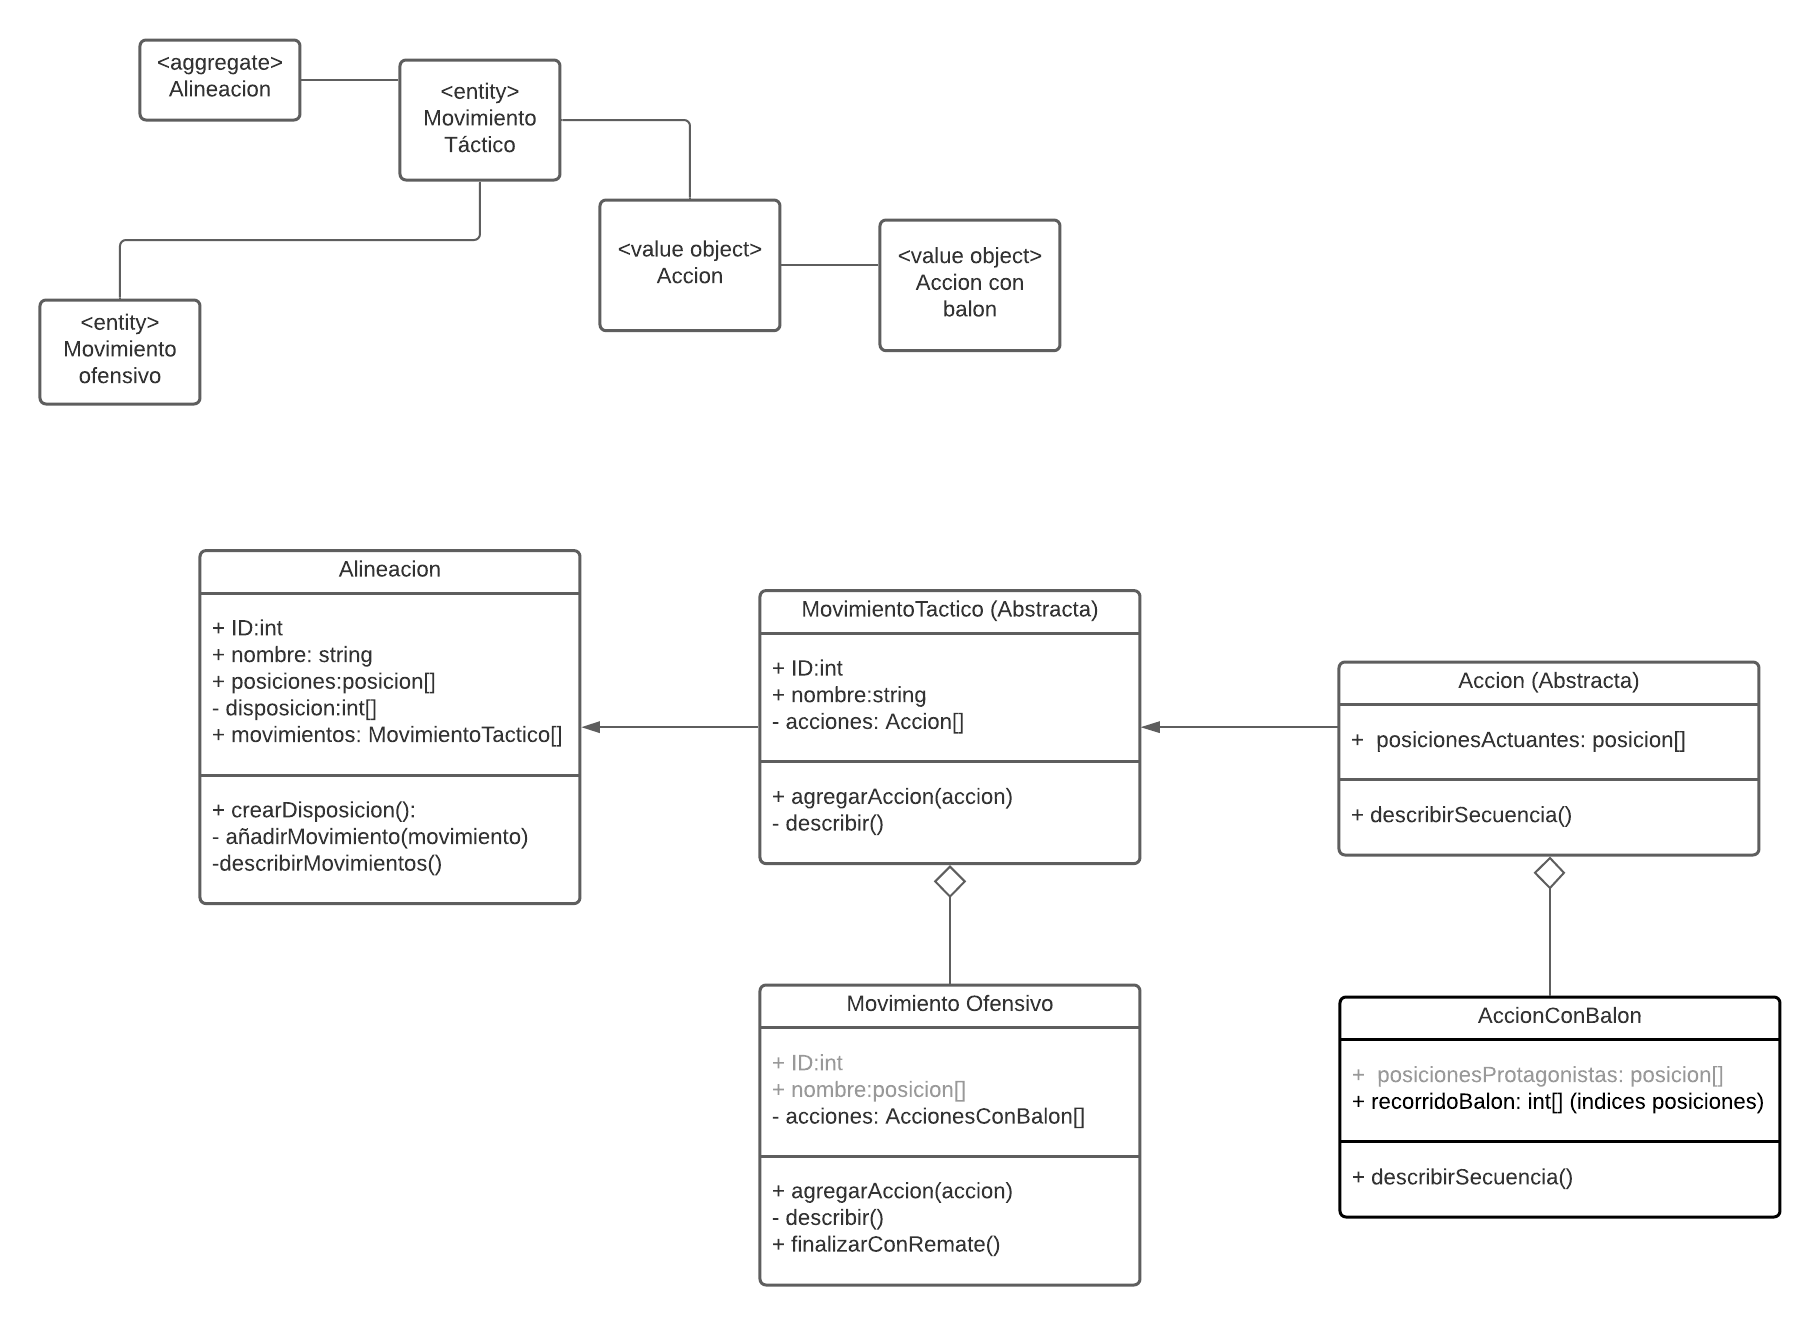
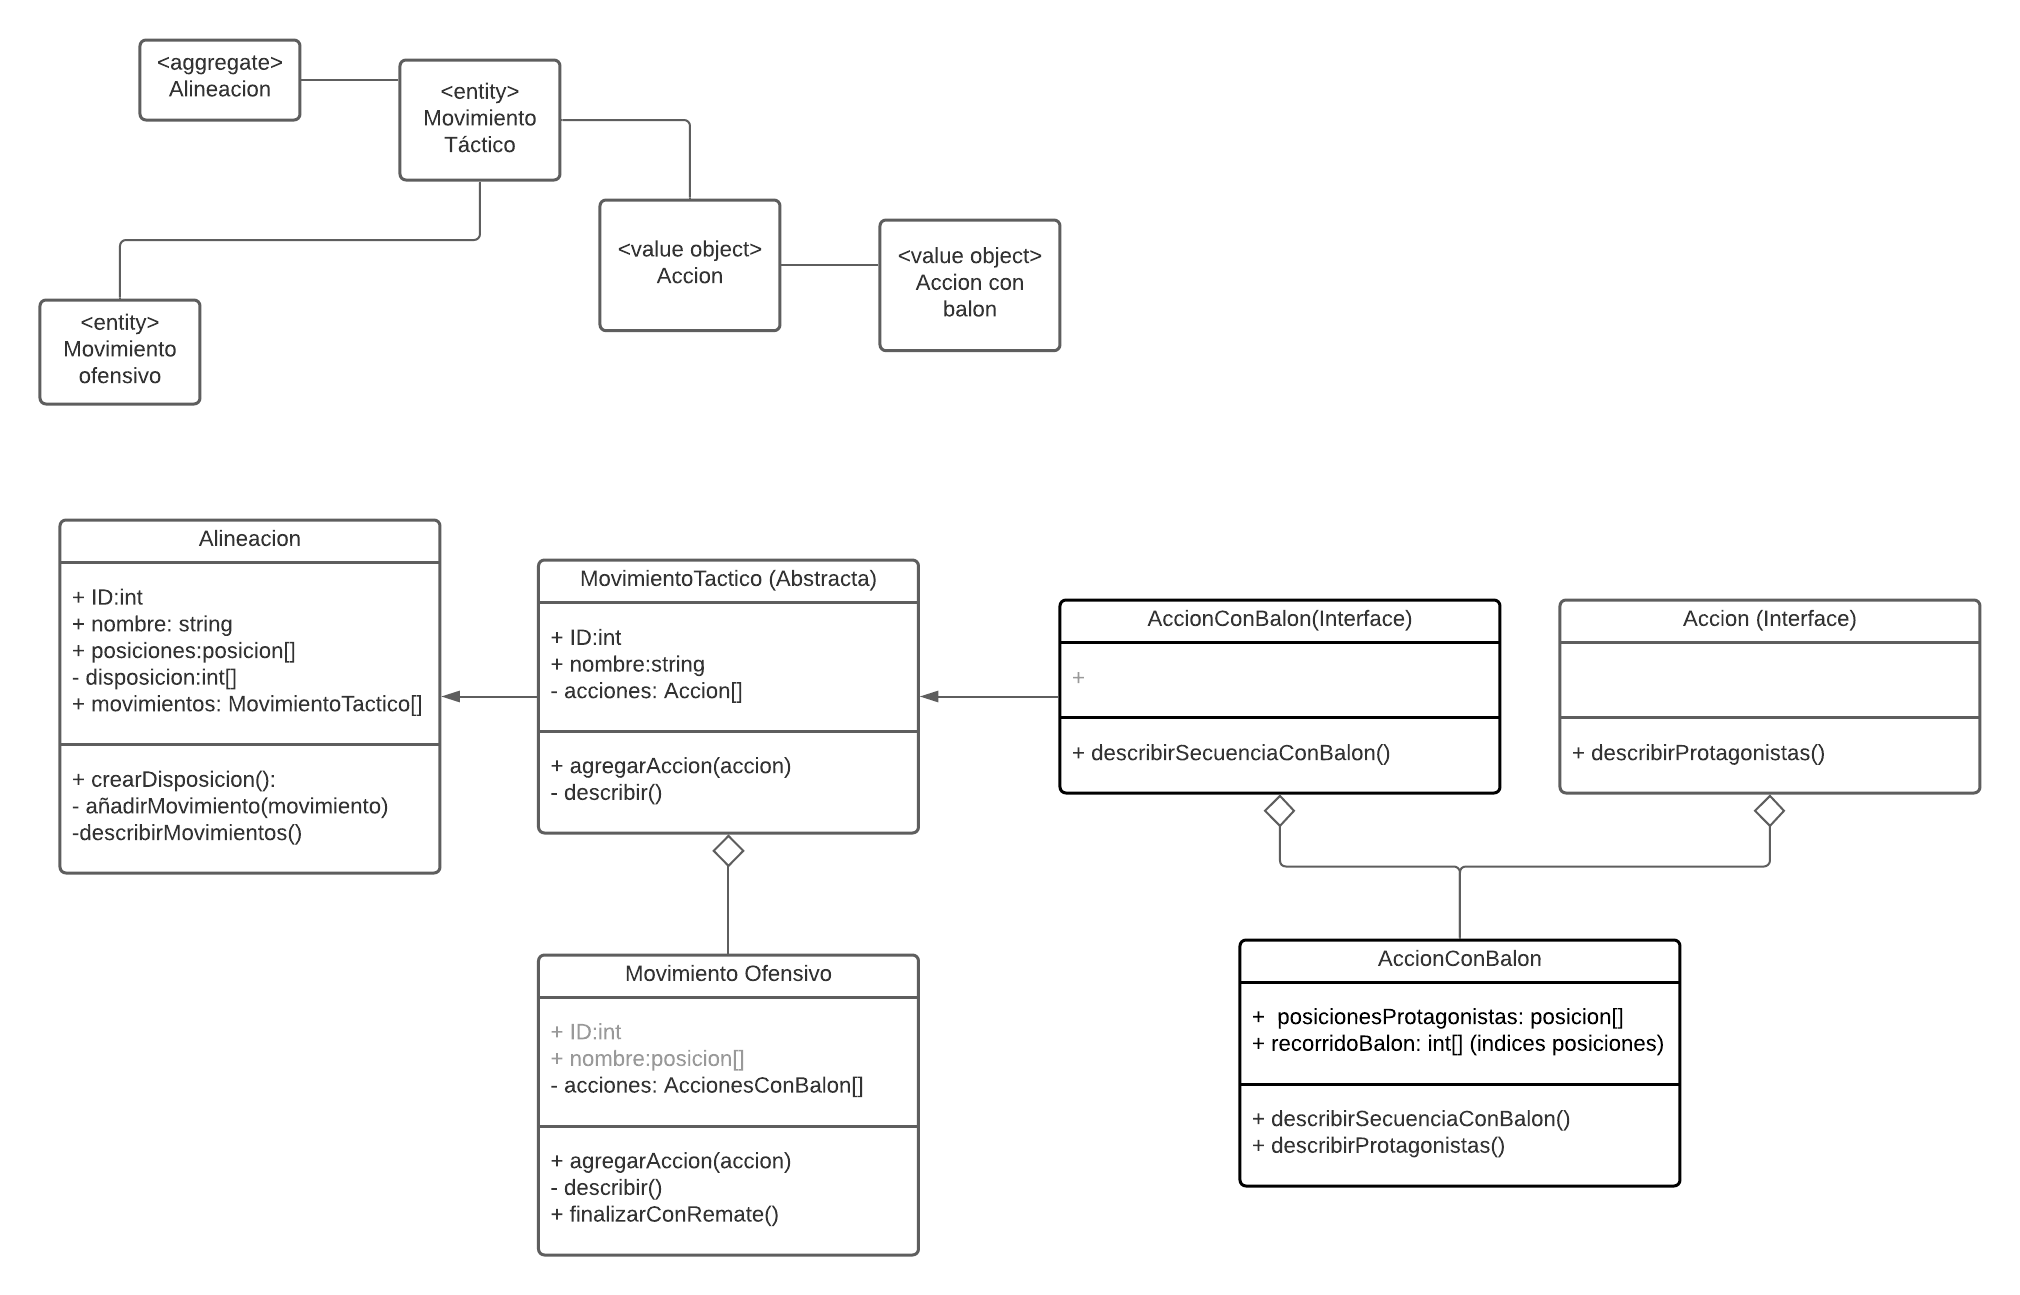
Completado

diff --git a/Program.cs b/Program.cs
@@ -10,25 +10,25 @@ namespace Solid
         static void Main(string[] args)
         {
             //Describimos las acciones
-            Accion salidaDeArco = new AccionConBalon(
+            AccionConBalon salidaDeArco = new Pase(
                 new List<Posicion>{Posicion.Portero,Posicion.DefensaLateral}, 
                 new int[2]{0,1}
             );
-            Accion paredConPivote = new AccionConBalon(
+            AccionConBalon paredConPivote = new Pase(
                 new List<Posicion>{Posicion.DefensaLateral,Posicion.Mediocapista}, 
                 new int[3]{0,1,0}
             );
-            Accion corridaPorBanda = new AccionConBalon(
+            AccionConBalon corridaPorBanda = new Pase(
                 new List<Posicion>{Posicion.DefensaLateral}, 
                 new int[1]{0}
             );
-            Accion centrada = new AccionConBalon(
+            AccionConBalon centrada = new Pase(
                 new List<Posicion>{Posicion.DefensaLateral, Posicion.DelanteroCentral},
                 new int[2]{1,0}
             );
 
             //Enlistamos las acciones
-            var acciones = new List<Accion>{salidaDeArco, paredConPivote, corridaPorBanda, centrada};
+            var acciones = new List<AccionConBalon>{salidaDeArco, paredConPivote, corridaPorBanda, centrada};
             
             //Creamos el movimiento tactico
             var atacarBanda = new MovimientoOfensivo(1,"Ataque por la Banda", acciones);

diff --git a/ValueObjects/Pase.cs b/ValueObjects/Pase.cs
@@ -1,0 +1,37 @@
+using System;
+using System.Collections.Generic;
+
+namespace Solid.ValueObjects
+{
+    class Pase: Accion, AccionConBalon
+    {
+        private int[] _recorridoBalon;
+        private List<Posicion> _posicionesActuantes;
+        public Pase(List<Posicion> posicionesProtagonistas, int[] recorridoBalon)
+        {
+            _recorridoBalon = recorridoBalon;
+            _posicionesActuantes = posicionesProtagonistas;
+        }
+        public void describirProtagonistas()
+        {
+            Console.Write("Las Posiciones que participan en este accion son: ");
+            foreach(var posicion in _posicionesActuantes)
+            {
+                Console.Write($"{posicion} ");
+            }
+            Console.WriteLine();
+        }
+        public void describirSecuenciaConBalon()
+        {
+            var primerActuante = _posicionesActuantes[_recorridoBalon[0]];
+            if(_recorridoBalon.Length == 1){
+                Console.WriteLine($"{primerActuante} corre con el balon.");
+            }
+            for(int i=1; i<_recorridoBalon.Length; i++)
+            {
+                Console.WriteLine($"{primerActuante} se la pasa a {_posicionesActuantes[_recorridoBalon[i]]}...");
+                primerActuante = _posicionesActuantes[_recorridoBalon[i]];
+            }
+        }
+    }
+}

diff --git a/Entities/MovimentoOfensivo.cs b/Entities/MovimentoOfensivo.cs
@@ -8,13 +8,13 @@ namespace Solid.Entities
     {
         private int _cantidadPasos;
         private bool _finalizacionConRemate;
-        public MovimientoOfensivo(int ID, string nombre, List<Accion> acciones)
+        public MovimientoOfensivo(int ID, string nombre, List<AccionConBalon> acciones)
             :base(ID,nombre, acciones)
         {
             _cantidadPasos = 0;
             _finalizacionConRemate = false;
         }
-        public override void agregarAccion(Accion accion)
+        public override void agregarAccion(AccionConBalon accion)
         {
             _acciones.Add(accion);
             _cantidadPasos++;
@@ -24,7 +24,7 @@ namespace Solid.Entities
             Console.WriteLine($"El movimiento: {_nombre} consiste en:");
             foreach (var accion in _acciones)
             {
-                accion.describirSecuencia();
+                accion.describirSecuenciaConBalon();
             }
             string mensajeFinal = (_finalizacionConRemate)?" con remate a porteria.":".";
             Console.WriteLine($"El movimiento termina{mensajeFinal}");

diff --git a/ValueObjects/AccionConBalon.cs b/ValueObjects/AccionConBalon.cs
@@ -3,25 +3,8 @@ using System.Collections.Generic;
 
 namespace Solid.ValueObjects
 {
-    class AccionConBalon: Accion
-    {
-        private int[] _recorridoBalon;
-        public AccionConBalon(List<Posicion> posicionesProtagonistas, int[] recorridoBalon)
-            :base(posicionesProtagonistas)
-        {
-            _recorridoBalon = recorridoBalon;
-        }
-        public override void describirSecuencia()
-        {
-            var primerActuante = _posicionesActuantes[_recorridoBalon[0]];
-            if(_recorridoBalon.Length == 1){
-                Console.WriteLine($"{primerActuante} corre con el balon.");
-            }
-            for(int i=1; i<_recorridoBalon.Length; i++)
-            {
-                Console.WriteLine($"{primerActuante} se la pasa a {_posicionesActuantes[_recorridoBalon[i]]}...");
-                primerActuante = _posicionesActuantes[_recorridoBalon[i]];
-            }
-        }
+    public interface AccionConBalon
+    {        
+        void describirSecuenciaConBalon();
     }
 }

diff --git a/Entities/MovimientoTactico.cs b/Entities/MovimientoTactico.cs
@@ -8,13 +8,13 @@ namespace Solid.Entities
     {
         protected int _ID;
         protected string _nombre;
-        protected List<Accion> _acciones;
-        public MovimientoTactico(int ID, string nombre, List<Accion> acciones){
+        protected List<AccionConBalon> _acciones;
+        public MovimientoTactico(int ID, string nombre, List<AccionConBalon> acciones){
             _ID = ID;
             _nombre = nombre;
             _acciones = acciones;
         }
-        public abstract void agregarAccion(Accion accion);
+        public abstract void agregarAccion(AccionConBalon accion);
         public abstract void describir();
     }
 }

diff --git a/ValueObjects/Accion.cs b/ValueObjects/Accion.cs
@@ -3,13 +3,8 @@ using System.Collections.Generic;
 
 namespace Solid.ValueObjects
 {
-    abstract class Accion
+    public interface Accion
     {
-        protected List<Posicion> _posicionesActuantes;
-        public Accion(List<Posicion> posicionesActuales){
-            _posicionesActuantes = posicionesActuales;
-        }
-        public abstract void describirSecuencia();
-
+        void describirProtagonistas();
     }
 }

diff --git a/README.md b/README.md
@@ -4,5 +4,4 @@
 
 # Diagrama de clases
 
-<img src="https://github.com/MakJhonny/DDD_Solid_Example/blob/main/Imagenes/DiagramaDeClases.PNG" width="200" height="200">
-
+<img src="https://github.com/MakJhonny/DDD_Solid_Example/blob/main/Imagenes/DiagramaDeClases.PNG" width="400" height="400">
